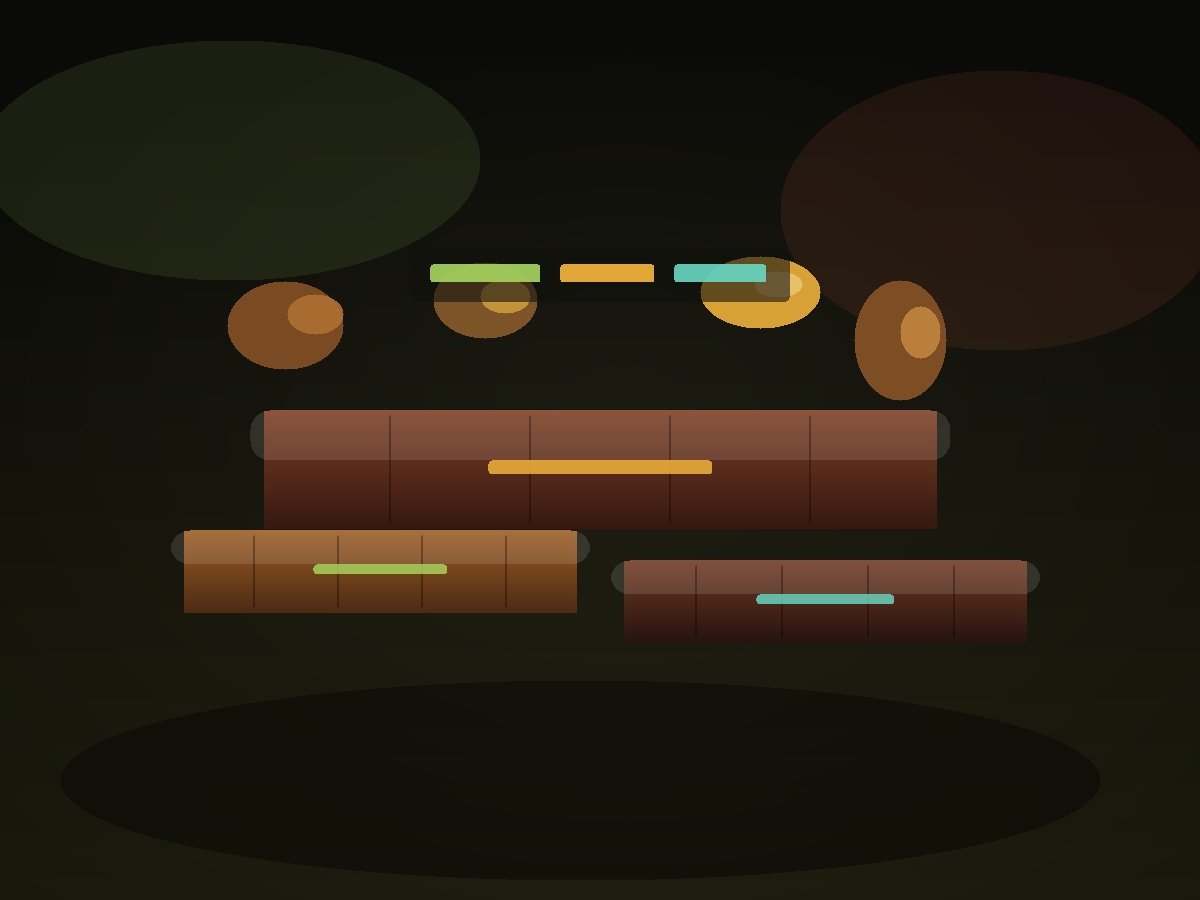
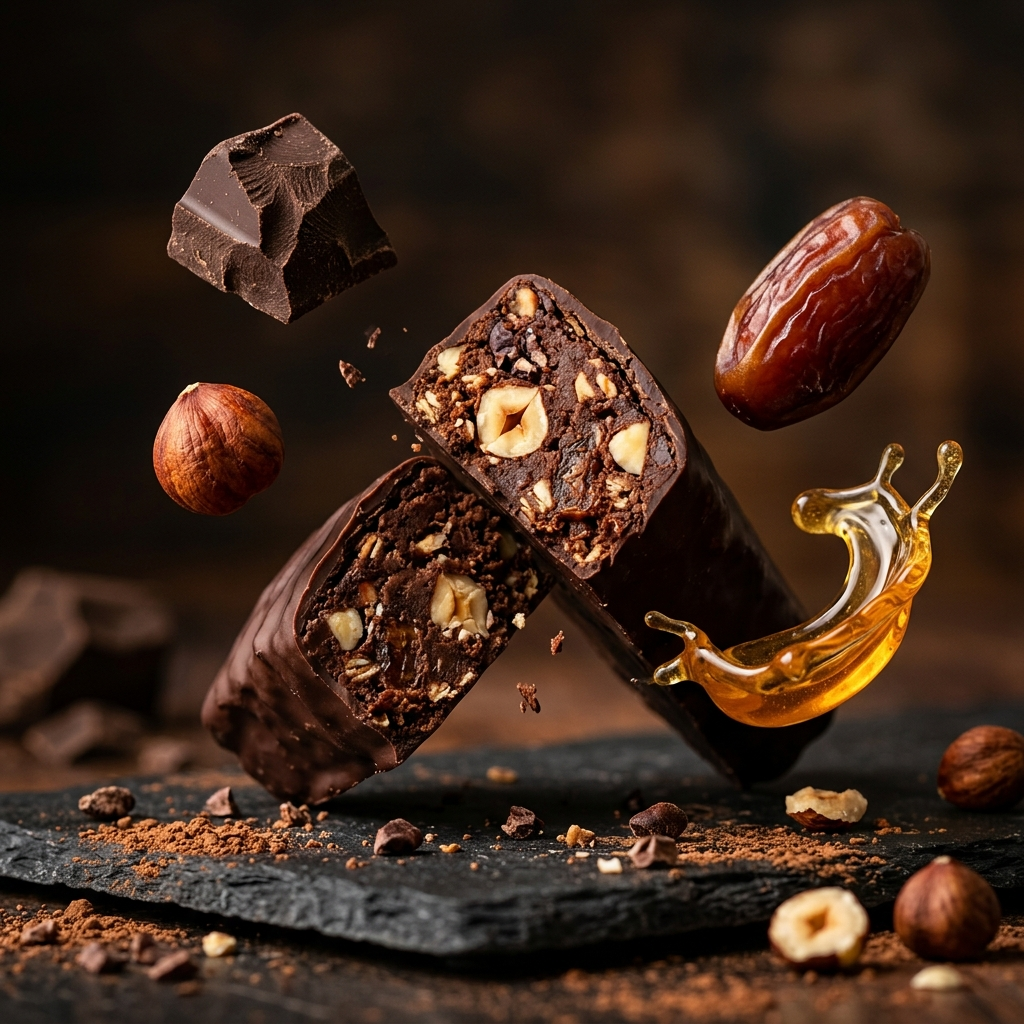
Replace generated abstract images with high quality food photography

diff --git a/components/product-card.tsx b/components/product-card.tsx
@@ -2,9 +2,9 @@
 
 import { ShoppingBag, Plus, Minus } from "lucide-react";
 import { useCart } from "@/components/cart/cart-provider";
-import { ProductVisual } from "@/components/sections/product-visual";
 import type { Product } from "@/lib/products";
 import Link from "next/link";
+import Image from "next/image";
 
 function formatMoney(value: number) {
   return `Rs. ${value}`;
@@ -23,8 +23,14 @@ export function ProductCard({ product }: { product: Product }) {
       {product.badge ? <span className="product-card__badge">{product.badge}</span> : null}
       
       <Link href={`/product/${product.id}`} style={{ textDecoration: 'none', color: 'inherit', display: 'block' }}>
-        <div className="product-card__visual">
-          <ProductVisual flavorKey={product.flavorKey} sizeKey={product.sizeKey} />
+        <div className="product-card__visual" style={{ padding: '15px' }}>
+          <Image 
+            src={`/product-${product.flavorKey}.png`} 
+            alt={product.flavorName} 
+            width={300} 
+            height={150} 
+            style={{ width: '100%', height: 'auto', objectFit: 'cover', borderRadius: '8px' }} 
+          />
         </div>
       </Link>
 

diff --git a/components/sections/ingredients-section.tsx b/components/sections/ingredients-section.tsx
@@ -1,5 +1,4 @@
 import { CheckCircle2 } from "lucide-react";
-import { ProductVisual } from "@/components/sections/product-visual";
 
 const ingredients = [
   "Dark chocolate",